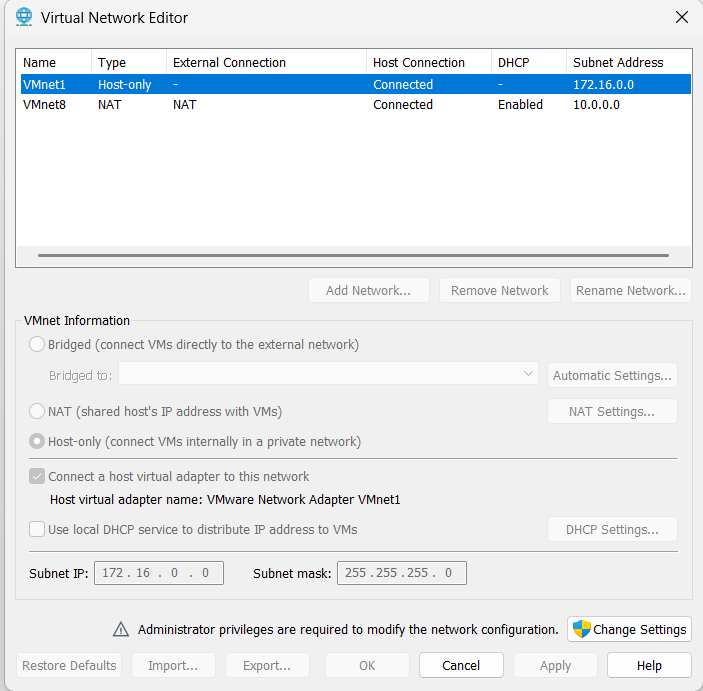
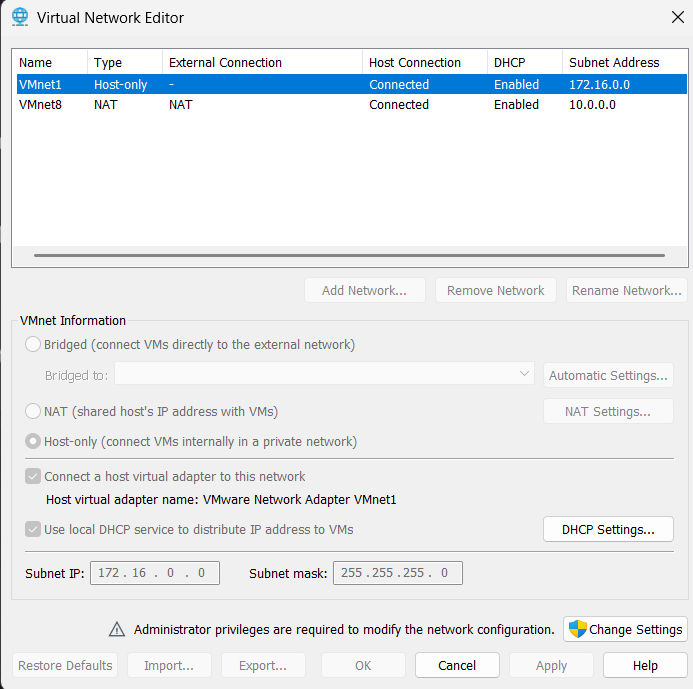
Soc-Update

diff --git a/redme.md b/redme.md
@@ -10,7 +10,6 @@
     * [1.1 Install Kali Linux (Attacker Machine)](#11-install-kali-linux-attacker-machine)
     * [1.2 Install Windows 10 (Target Machine)](#12-install-windows-10-target-machine)
     * [1.3 Configure Network Adapters](#13-configure-network-adapters)
-    * [1.4 Set Static IP Addresses](#14-set-static-ip-addresses)
 5.  [Step 2: Installing Splunk for Log Monitoring](#step-2-installing-splunk-for-log-monitoring)
 6.  [Step 3: Installing Sysmon on Windows 10](#step-3-installing-sysmon-on-windows-10)
 7.  [Step 4: Generating Malware with msfvenom](#step-4-generating-malware-with-msfvenom)
@@ -117,7 +116,7 @@ For VMware Workstation:
 4.  **Locate and Configure VMnet1 (Host-only):**
     * In the Virtual Network Editor window, select `VMnet1`.
     * Ensure "Host-only (Connect VMs to this private network)" is selected.
-    * **Crucially, UNCHECK** "Use local DHCP service to distribute IP addresses to VMs".
+   * **Crucially, CHECK** "Use local DHCP service to distribute IP addresses to VMs".
     * Confirm the **Subnet IP** is `172.16.0.0` and **Subnet mask** is `255.255.255.0`.
     * **Important:** Note that your Host machine's IP on this VMnet1 adapter will typically be `172.16.0.1`. This is where your VMs will send logs if Splunk is on the Host.
     * Click `Apply` and `OK`.
